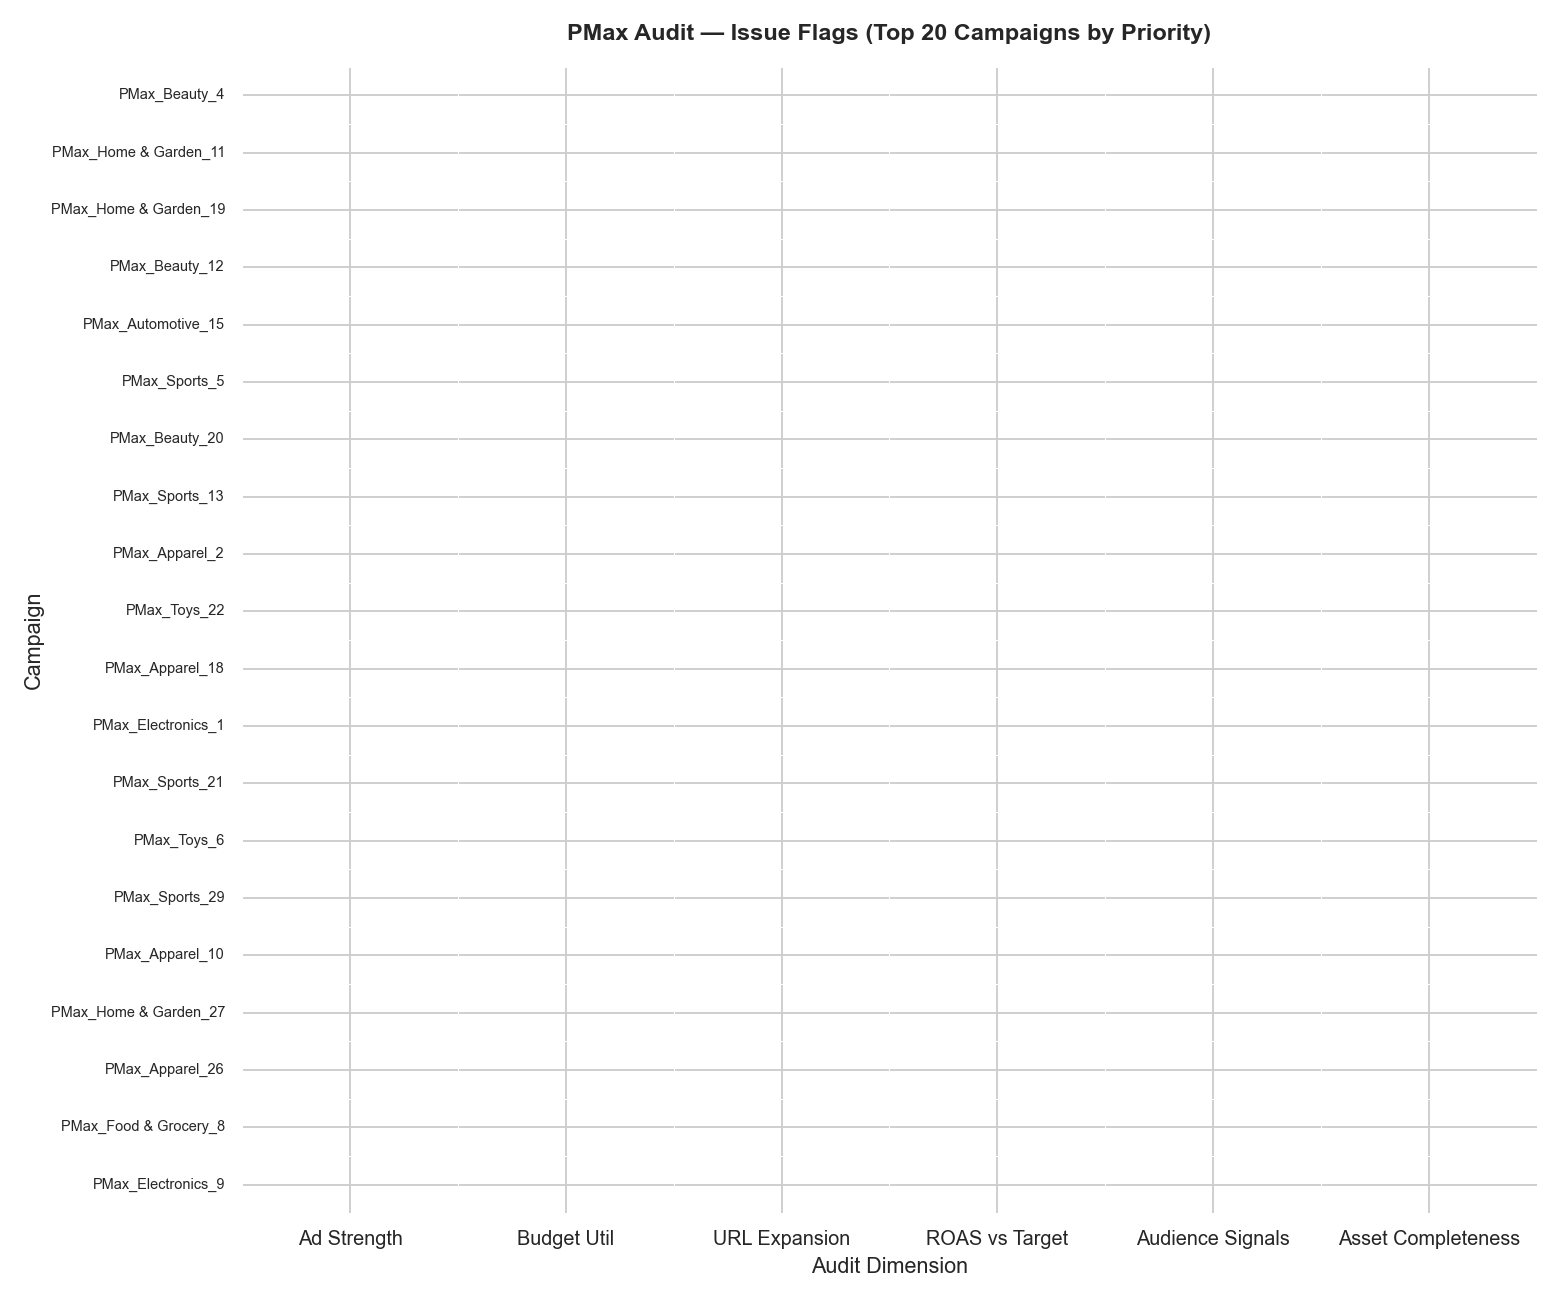
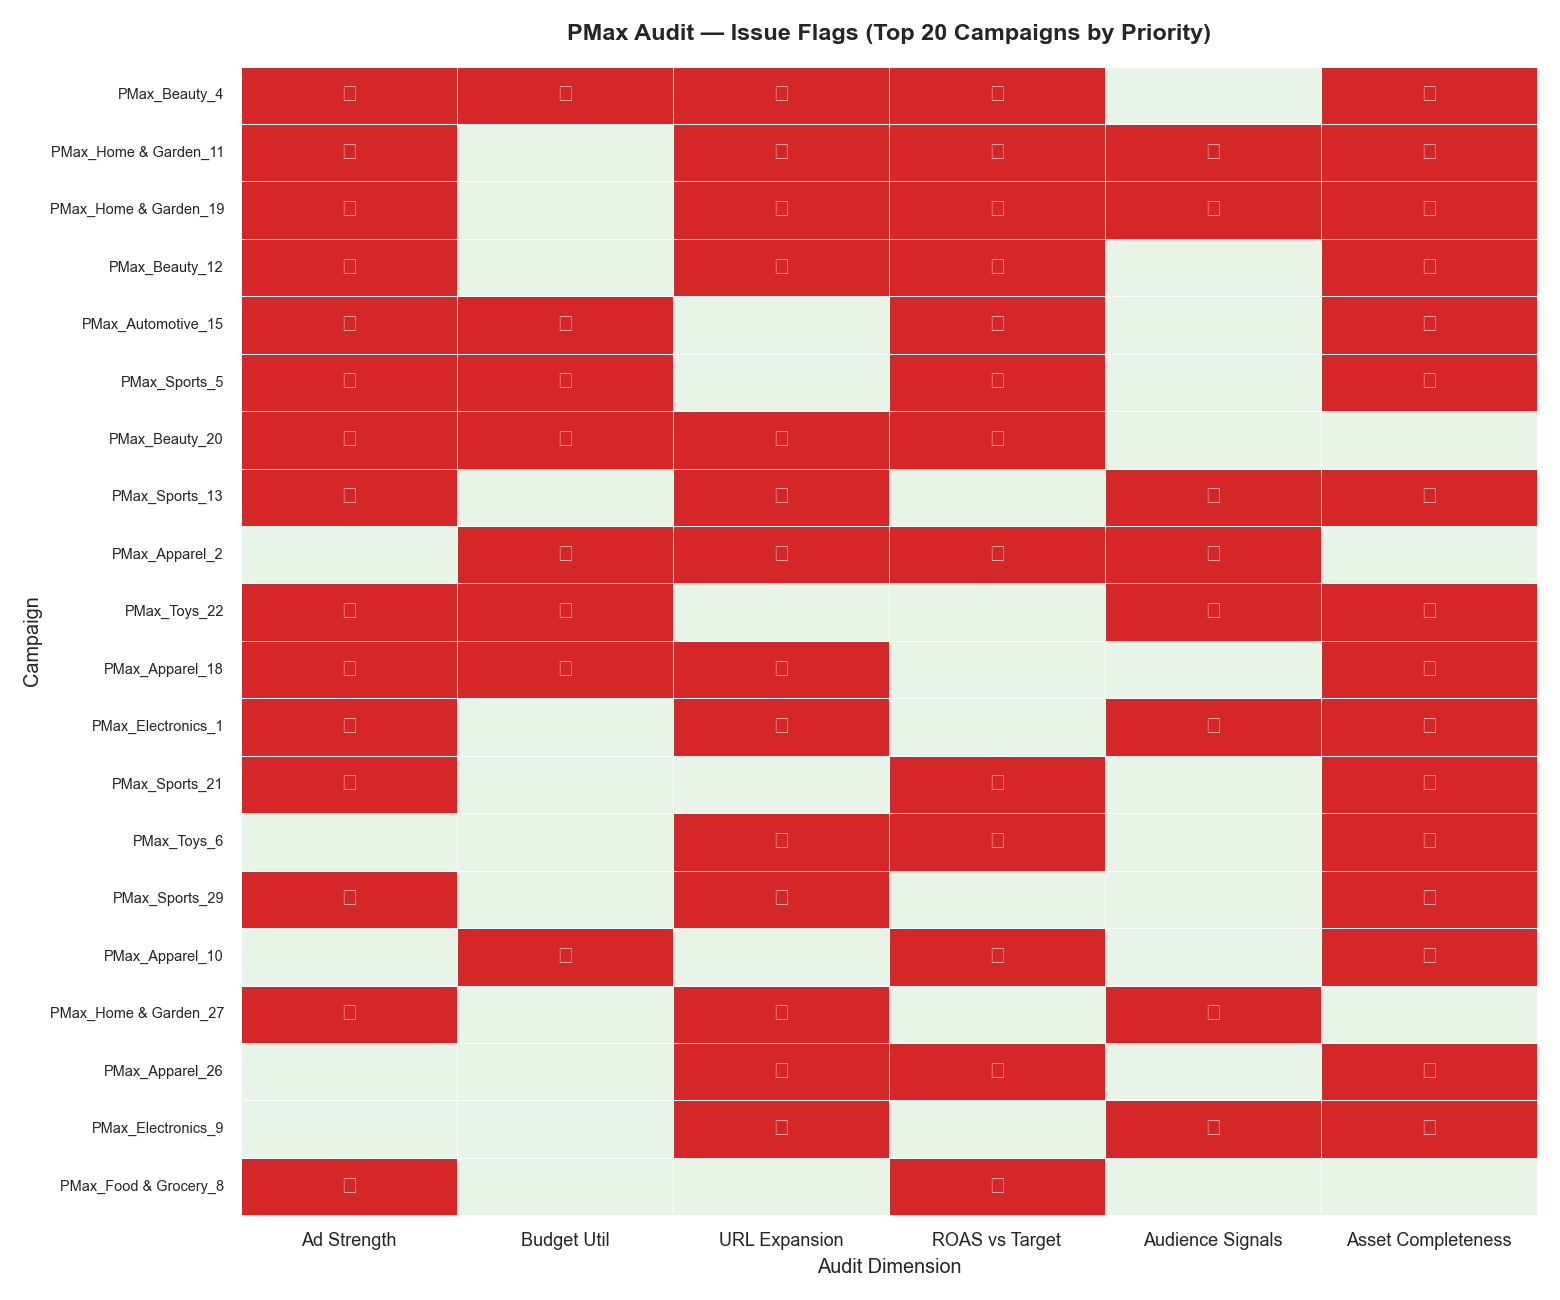
model update

diff --git a/pmax_audit.py b/pmax_audit.py
@@ -146,37 +146,44 @@ def run_audit(df):
 
 # ── Chart 1: Issue Heatmap ──────────────────────────────────────────────────
 def chart_issue_heatmap(df):
-    issue_cols = {
-        "ad_strength_issue": "Ad Strength",
-        "budget_issue": "Budget Util",
-        "url_expansion_issue": "URL Expansion",
-        "roas_issue": "ROAS vs Target",
-        "audience_issue": "Audience Signals",
-        "asset_issue": "Asset Completeness"
-    }
+    # Recalculate flags directly from raw columns — fully self-contained
+    audit_flags = pd.DataFrame(index=df["campaign_name"])
+    audit_flags["Ad Strength"]       = df["ad_strength"].isin(["Fair", "Poor"]).values.astype(int)
+    audit_flags["Budget Util"]       = (df["budget_utilization"] < 70).values.astype(int)
+    audit_flags["URL Expansion"]     = (df["url_expansion"] == "Disabled").values.astype(int)
+    audit_flags["ROAS vs Target"]    = (df["actual_roas"] < df["target_roas"] * 0.8).values.astype(int)
+    audit_flags["Audience Signals"]  = (~df["audience_signals"]).values.astype(int)
+    audit_flags["Asset Completeness"]= ((df["headlines_count"] < 8) | (df["images_count"] < 5)).values.astype(int)
 
-    # Re-run flags for chart
-    audit_flags = pd.DataFrame({
-        "Ad Strength": df["ad_strength"].isin(["Fair", "Poor"]).astype(int),
-        "Budget Util": (df["budget_utilization"] < 70).astype(int),
-        "URL Expansion": (df["url_expansion"] == "Disabled").astype(int),
-        "ROAS vs Target": (df["actual_roas"] < df["target_roas"] * 0.8).astype(int),
-        "Audience Signals": (~df["audience_signals"]).astype(int),
-        "Asset Completeness": ((df["headlines_count"] < 8) | (df["images_count"] < 5)).astype(int),
-    }, index=df["campaign_name"])
-
+    # Sort by total issues descending, take top 20
+    audit_flags["_total"] = audit_flags.sum(axis=1)
+    audit_flags = audit_flags.sort_values("_total", ascending=False).drop(columns="_total")
     top20 = audit_flags.head(20)
 
+    # Build annotation array: blank for 0, warning symbol for 1
+    annot = top20.copy().astype(object)
+    annot[top20 == 0] = ""
+    annot[top20 == 1] = "⚠"
+
     fig, ax = plt.subplots(figsize=(12, 10))
-    sns.heatmap(top20, cmap=["#e8f4e8", "#d62728"], linewidths=0.5,
-                linecolor='white', cbar=False, ax=ax,
-                annot=top20.replace({0: "", 1: "⚠"}).values,
-                fmt='', annot_kws={"size": 12})
-    ax.set_title('PMax Audit — Issue Flags (Top 20 Campaigns by Priority)',
-                 fontsize=13, fontweight='bold', pad=15)
-    ax.set_xlabel('Audit Dimension')
-    ax.set_ylabel('Campaign')
-    ax.tick_params(axis='y', labelsize=8)
+    sns.heatmap(
+        top20,
+        cmap=["#e8f4e8", "#d62728"],
+        linewidths=0.5,
+        linecolor="white",
+        cbar=False,
+        ax=ax,
+        vmin=0, vmax=1,
+        annot=annot.values,
+        fmt="",
+        annot_kws={"size": 13}
+    )
+    ax.set_title("PMax Audit — Issue Flags (Top 20 Campaigns by Priority)",
+                 fontsize=13, fontweight="bold", pad=15)
+    ax.set_xlabel("Audit Dimension", fontsize=11)
+    ax.set_ylabel("Campaign", fontsize=11)
+    ax.tick_params(axis="y", labelsize=8)
+    ax.tick_params(axis="x", labelsize=10)
     plt.tight_layout()
     plt.savefig(f"{OUTPUT}/01_audit_heatmap.png")
     plt.close()
